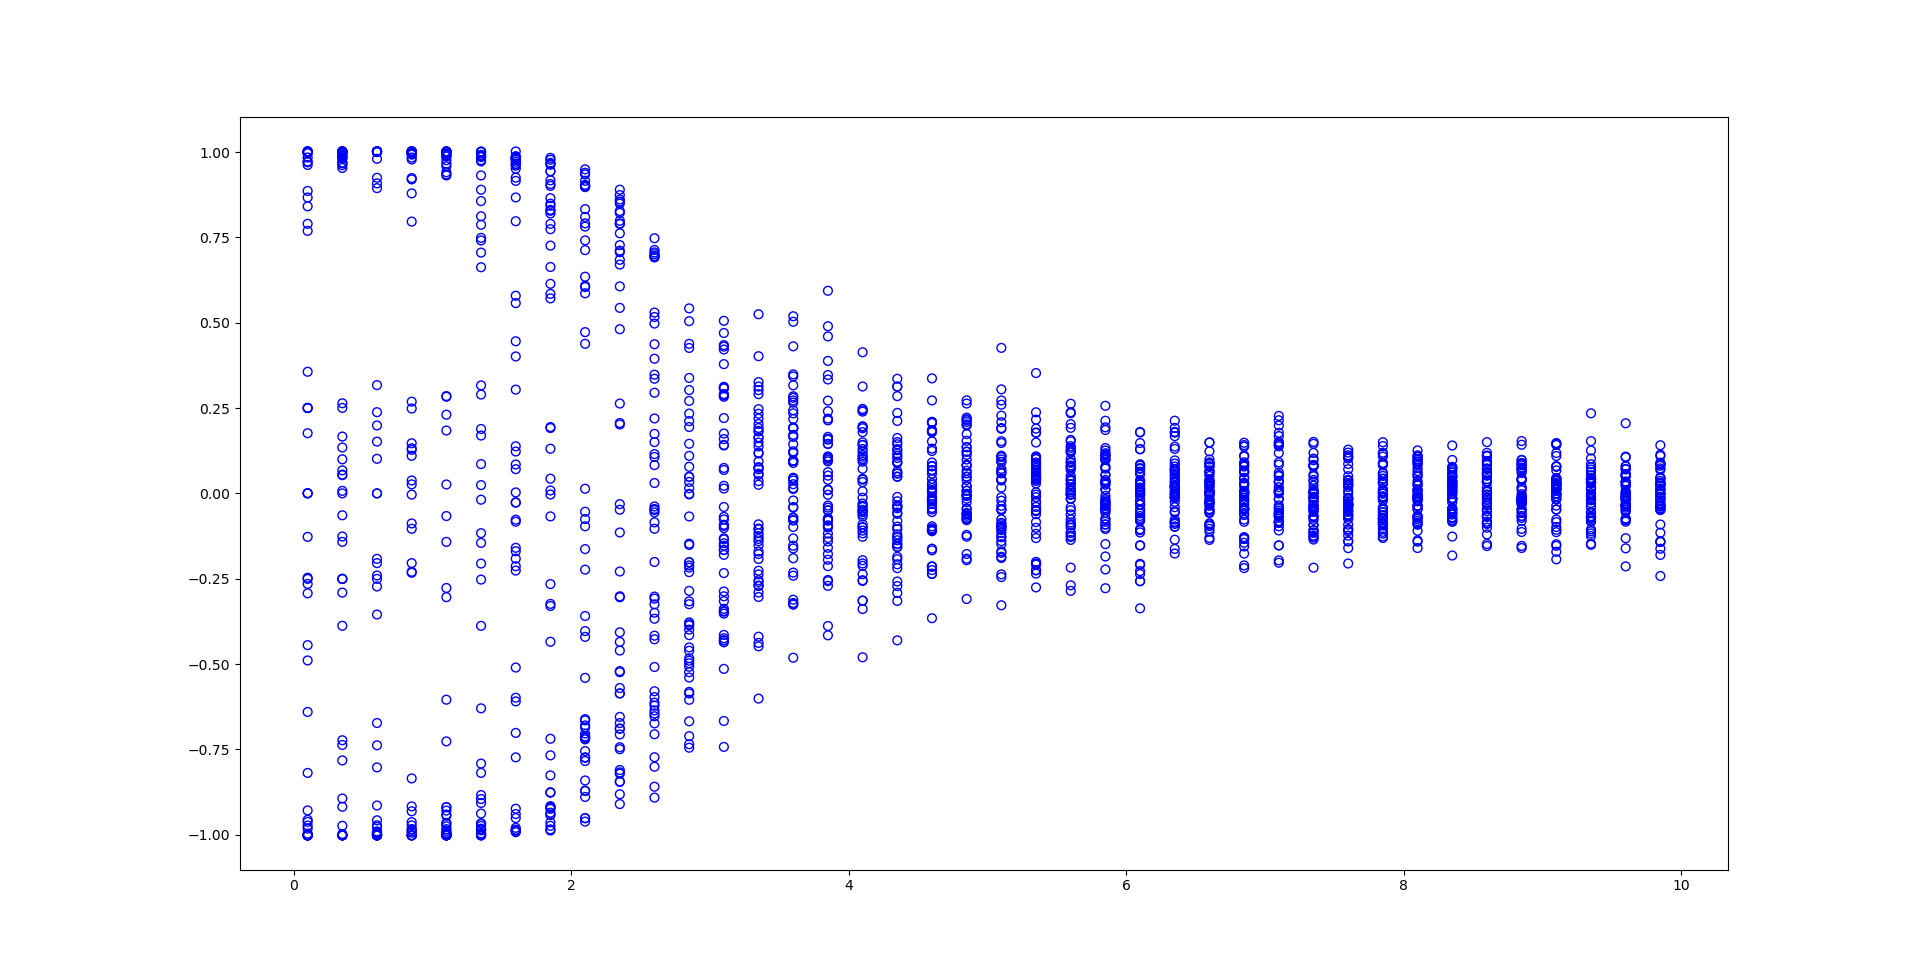
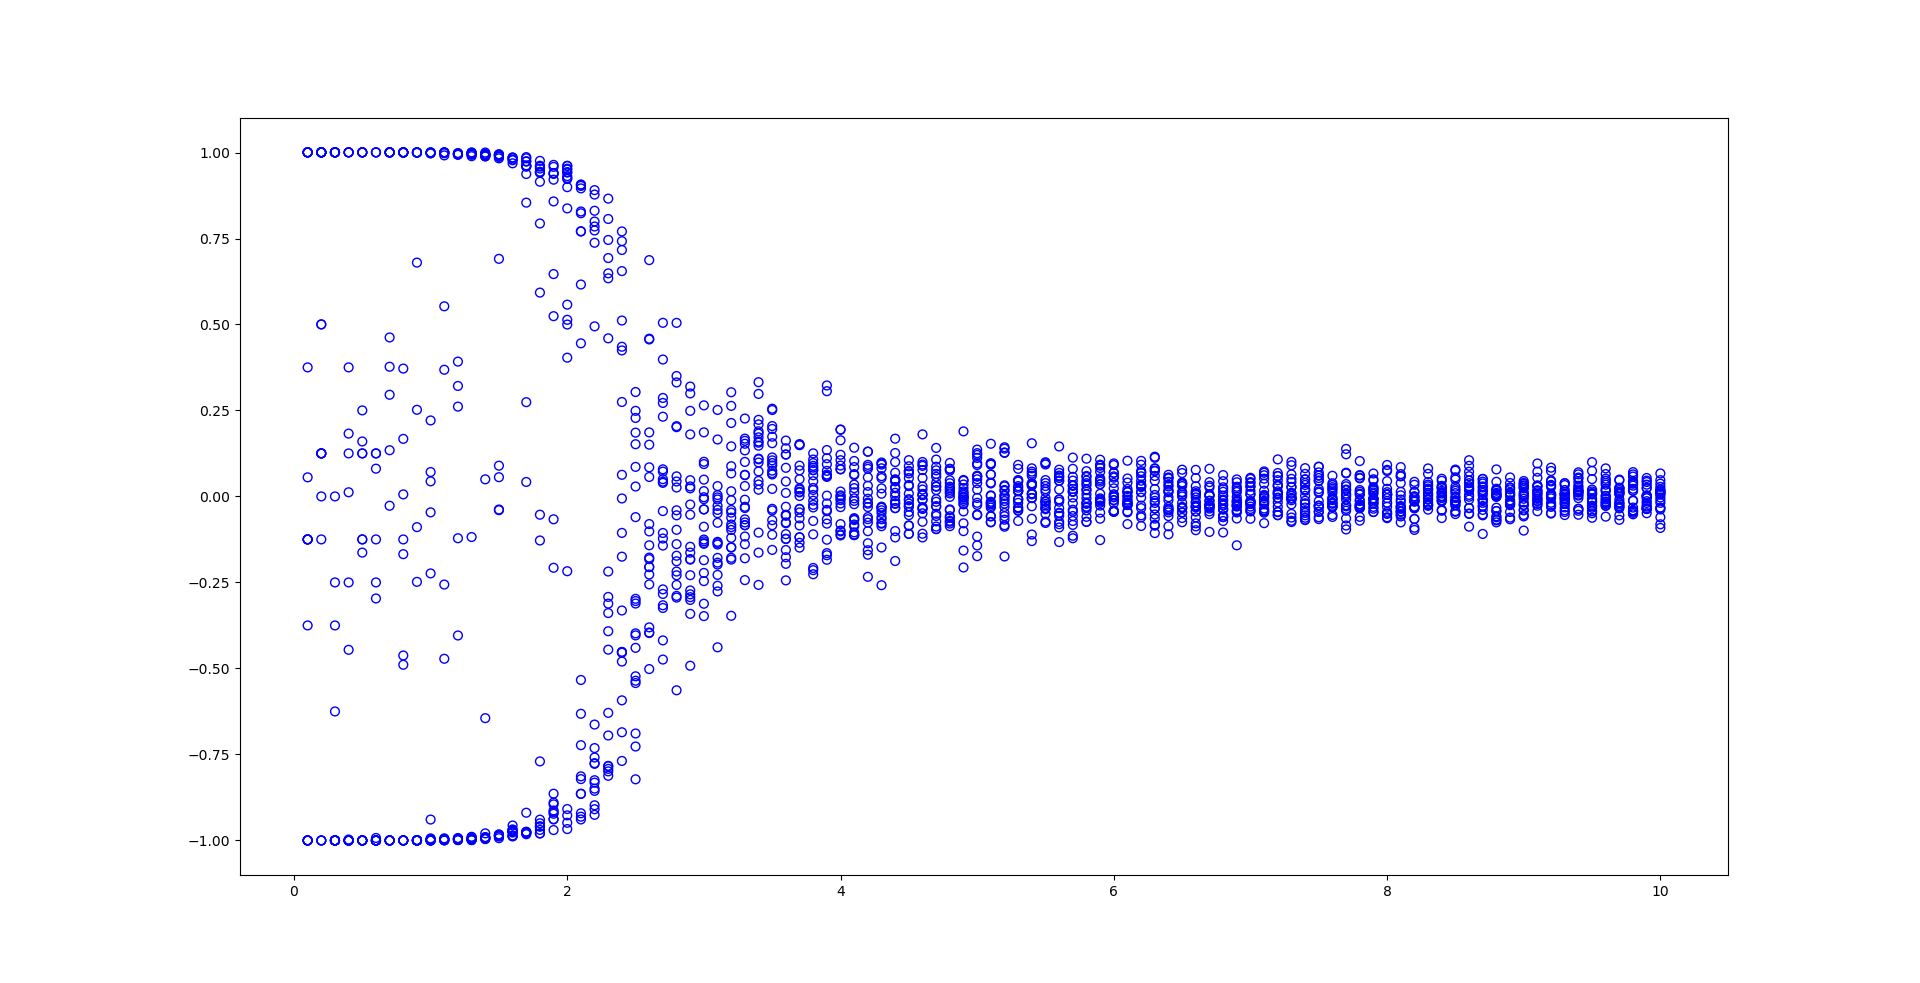
Per-spin energy calculation

diff --git a/ising.py b/ising.py
@@ -6,35 +6,42 @@ import matplotlib.pyplot as plt
 class Lattice:
     """Implements a 2d Ising lattice
 
-    Implements an Ising model in a field for Monte Carlo
-    with a Hamiltonian H = -J sum_{ij}(s_i,s_j) - h sum_{j}(s_j)
-    where s_i is an individual spin on the lattice,
-    h is the field, and J is the interaction coefficient
+    Implements an Ising model in a field for Monte Carlo with a Hamiltonian H = -J sum_{ij}(s_i,s_j) - h sum_{j}(s_j)
+    where s_i is an individual spin on the lattice, h is the field, and J is the interaction coefficient
 
     Attributes:
         n: size of the nxn lattice
-        h: external field
-        j: spin-spin interaction constant
         states: an nxn ndarray of spins
-     """
+    """
 
-    def __init__(self, n=2, h=0, j=1):
-        """Initializes the lattice with all spins being 1"""
+    def __init__(self, n: int = 2, h: float = 0.0, j: float = 1.0) -> None:
+        """Initializes the lattice with all spins being 1
+
+        Args:
+            n: lattice size (linear)
+            h: external field
+            j: spin-spin interaction constant
+        """
         self.n = n
         self.h = h
         self.j = j
         self.states = np.ones((self.n, self.n))
 
-    def shuffle(self):
+    def shuffle(self) -> None:
+        """Randomizes spin states"""
         for i in range(self.n):
             for j in range(self.n):
                 self.states[i, j] = np.random.choice([-1, 1])
 
-    def check(self):
-        a = (0, 0)
-        print(self.states[a])
+    def bc(self, x: int) -> int:
+        """Apply periodic boundaries to a coordinate
 
-    def bc(self, x):
+        Args:
+            x: Integer spin position
+
+        Returns:
+            Position with respect to periodic boundaries
+        """
         if x >= self.n:
             return x - self.n
         if x < 0:
@@ -42,13 +49,22 @@ class Lattice:
         else:
             return x
 
-    def energy(self):
+    def energy(self) -> float:
+        """Calculates lattice energy
+
+        Calculates energy of the lattice according to either the full hamiltonian, nearest neighbours or a cutoff.
+        Deprecated in favor of spin_energy
+
+        Returns: Energy of the lattice
+
+        """
         h = 0
         """ Full energy
         s = self.states.ravel()
         for i in s:
             h -= 0.5 * self.j * np.sum(np.multiply(i, s))
         """
+        """ Cutoff
         # FIX: This doesn't work
         cutoff = 1
         for i in range(self.n):
@@ -61,7 +77,7 @@ class Lattice:
                         h -= 0.5 * self.j * self.states[i, j] * self.states[self.bc(i + k), self.bc(j - kk)]
                         h -= 0.5 * self.j * self.states[i, j] * self.states[self.bc(i - k), self.bc(j + kk)]
                         h -= 0.5 * self.j * self.states[i, j] * self.states[self.bc(i - k), self.bc(j - kk)]
-        """ Nearest neighbour
+        """  # Nearest neighbour
         for i in range(self.n):
             for j in range(self.n):
                 left = (i - 1 if i > 0 else self.n - 1)
@@ -69,14 +85,31 @@ class Lattice:
                 up = (j + 1 if j < self.n - 1 else 0)
                 down = (j - 1 if j > 0 else self.n - 1)
 
-                h -= 0.5 * self.j * self.states[i, j] * (
-                        self.states[left, j] + self.states[right, j] +
-                        self.states[i, up] + self.states[i, down]
-                )
-        """
+                h -= 0.5 * self.j * self.states[i, j] * (self.states[left, j] + self.states[right, j] +
+                                                         self.states[i, up] + self.states[i, down])
+
         return h
 
-    def visualize(self, kind, filename=""):
+    # TODO: rename this to something more generalized
+    # TODO: create a general model class
+    def spin_energy(self, k: int) -> float:
+        """Calculate energy of one spin
+
+        Args:
+            k: 1d number of spin from a flattened array
+
+        Returns:
+            Energy of the spin, considering only nearest neighbour interactions.
+        """
+        i = k // self.n
+        j = k % self.n
+
+        delta = -self.j * self.states[i, j] * (self.states[self.bc(i - 1), j] + self.states[self.bc(i + 1), j] +
+                                               self.states[i, self.bc(j + 1)] + self.states[i, self.bc(j - 1)])
+
+        return delta
+
+    def visualize(self, kind: str, filename: str = "") -> None:
         """Visualizes the lattice
 
         Visualizes the lattice state either in terminal or graphically via seaborn heatmap.
@@ -93,11 +126,13 @@ class Lattice:
                 for j in range(self.n):
                     print(str(int(self.states[i, j])) + " ", end='')
                 print()
+
         elif kind == "cool":
-            sns.heatmap(self.states, cbar=False)
+            sns.heatmap(self.states, vmin=-1, vmax=1)
             if filename:
                 plt.savefig(filename)
             else:
                 plt.show()
+
         else:
-            raise ValueError("Wrong plot kind")
+            raise ValueError("Wrong plot type")

diff --git a/mc.py b/mc.py
@@ -2,43 +2,53 @@ import random
 import numpy as np
 
 
-def function():
-    print("this is a start")
-
-
-def step(model):
-    model.states[0, 0] += 1
-
-
-def update(model, T):
+# Note: maybe this should be provided by the model class
+def update(model: object, t: float) -> None:
+    """Performs a MC move
+    
+    Chooses a random state to change, measures energy before and after. If energy change is negative, the move is 
+    accepted, otherwise a move's probability exp(-dE/kT) is compared to a uniformly distributed float.
+    
+    Args:
+        model: model object
+        t: temperature
+    """
     states = model.states.ravel()
     size = len(states)
     i = random.randint(0, size - 1)
-    #print("Trying spin: " + str(i))
-    e0 = model.energy()
+    e0 = model.spin_energy(i)
     states[i] *= -1
-    e1 = model.energy()
+    e1 = model.spin_energy(i)
     if e1 - e0 < 0:
         # print("Accepted")
         return
     else:
         acc = random.random()
-        if np.exp(-(e1 - e0) / T) > acc:
-            #    print("Accepted")
+        if np.exp(-(e1 - e0) / t) > acc:
+            # print("Accepted")
             return
         else:
             states[i] *= -1
 
 
-def sim(model, nsteps, T):
+def sim(model: object, nsteps: int, t: float):
+    """Performs Monte Carlo simulations
+
+    Args:
+        model: the model to be simulated
+        nsteps: number of steps
+        t: temperature
+
+    Returns:
+        nothing good
+    """
     random.seed()
+    # TODO: move magnetism calculation to main
     d = model.states.flatten()
     for i in range(nsteps):
-        update(model, T)
-        #print(i)
-        #model.visualize("cool")
+        update(model, t)
         d += model.states.flatten()
         # print(f"Energy: {model.energy(): .4}")
     d /= nsteps
-    #print("AVE:  " + str(d.mean()))
+    # print("AVE:  " + str(d.mean()))
     return d.mean()

diff --git a/main.py b/main.py
@@ -5,16 +5,15 @@ import ising
 import numpy as np
 import matplotlib.pyplot as plt
 from multiprocessing import Pool
-import seaborn as sns
 
 
 def test(t):
     res = []
     for i in range(20):
-        a = ising.Lattice(8)
+        a = ising.Lattice(16)
         a.shuffle()
-        mc.sim(a, 100, t)
-        res.append([t, mc.sim(a, 100, t)])
+        mc.sim(a, 20000, t)
+        res.append([t, mc.sim(a, 2000, t)])
         del a
     print(t)
     return res
@@ -22,24 +21,24 @@ def test(t):
 
 def magnetization_map():
     with Pool(8) as p:
-        a = p.map(test, np.arange(0.1, 20.1, 0.5))
-    T = []
+        a = p.map(test, np.arange(0.1, 10.1, 0.1))
+    t = []
     m = []
     for res in a:
         for r in res:
-            T.append(r[0])
+            t.append(r[0])
             m.append(r[1])
-    plt.scatter(T, m, s=40, facecolor='none', edgecolors='blue')
+    plt.scatter(t, m, s=40, facecolor='none', edgecolors='blue')
     plt.show()
 
 
 def coolplot(n, t):
     a = ising.Lattice(n)
     a.shuffle()
-    mc.sim(a, 2000, t)
+    mc.sim(a, 20000, t)
     a.visualize("cool", filename="")
 
 
 if __name__ == '__main__':
-    magnetization_map()
-    # coolplot(8, 1)
+    # magnetization_map()
+    coolplot(16, 2.5)
